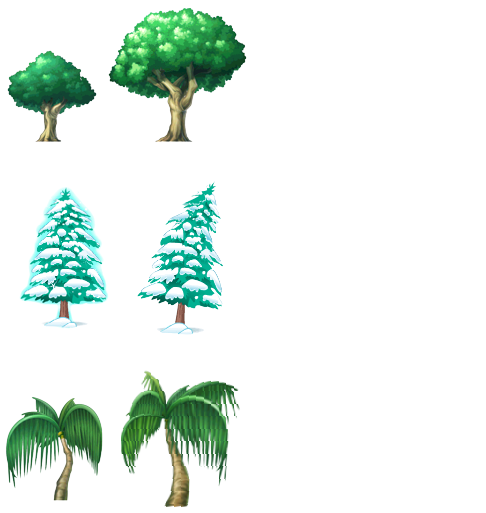
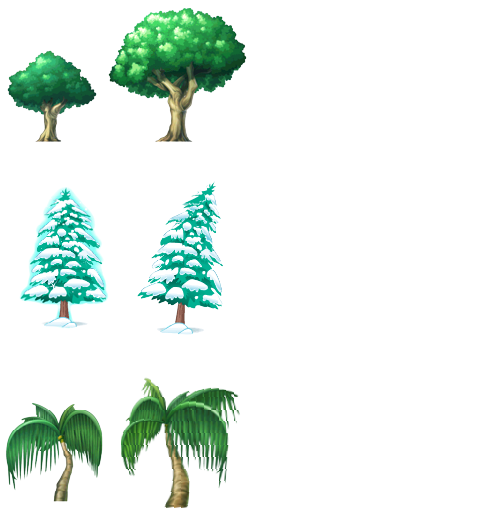
j,bdgk

Changed region(s): [[0.2469, 0.7173, 0.4938, 0.9981], [0.0, 0.7797, 0.216, 0.9669]]

diff --git a/oop2_proj/include/macros.h b/oop2_proj/include/macros.h
@@ -186,15 +186,15 @@ MIDDLE_FLOOR_L3(408, 322, 52, 49),
 RIGHT_FLOOR_L3(475, 322, 54, 50),
 
 FIRST_TREE_L1(3,47,98,100),
-SECOUND_TREE_L1(106,3,143,144),
+SECOUND_TREE_L1(106,3,144,143),
 ROCK_L1(200, 81, 80, 48),
 
-FIRST_TREE_L2(13,182,150,98),
-SECOUND_TREE_L2(134,178,160,100),
+FIRST_TREE_L2(13,182,98,150),
+SECOUND_TREE_L2(134,178,100,160),
 ROCK_L2(209, 192, 40, 30),
 
-FIRST_TREE_L3(2,395,109,103),
-SECOUND_TREE_L3(113,369,140,134),
+FIRST_TREE_L3(1,402,104,100),
+SECOUND_TREE_L3(116,376,122,132),
 ROCK_L3(195, 348, 80, 50),
 
 MALE_RECT(736, 5, 95, 110), 

diff --git a/oop2_proj/src/ScreenSrc/GameScreen.cpp b/oop2_proj/src/ScreenSrc/GameScreen.cpp
@@ -165,8 +165,6 @@ void GameScreen::startNewLevel()
 		m_statusBar.updateLevel(true);
 		m_statusBar.setMaxDiamonds(m_dataBase.getLevelMaxDiamonds());
 	}
-	std::cout << "neither \n";
-
 }
 //----------------------------------------------
 //starting the current level again 
